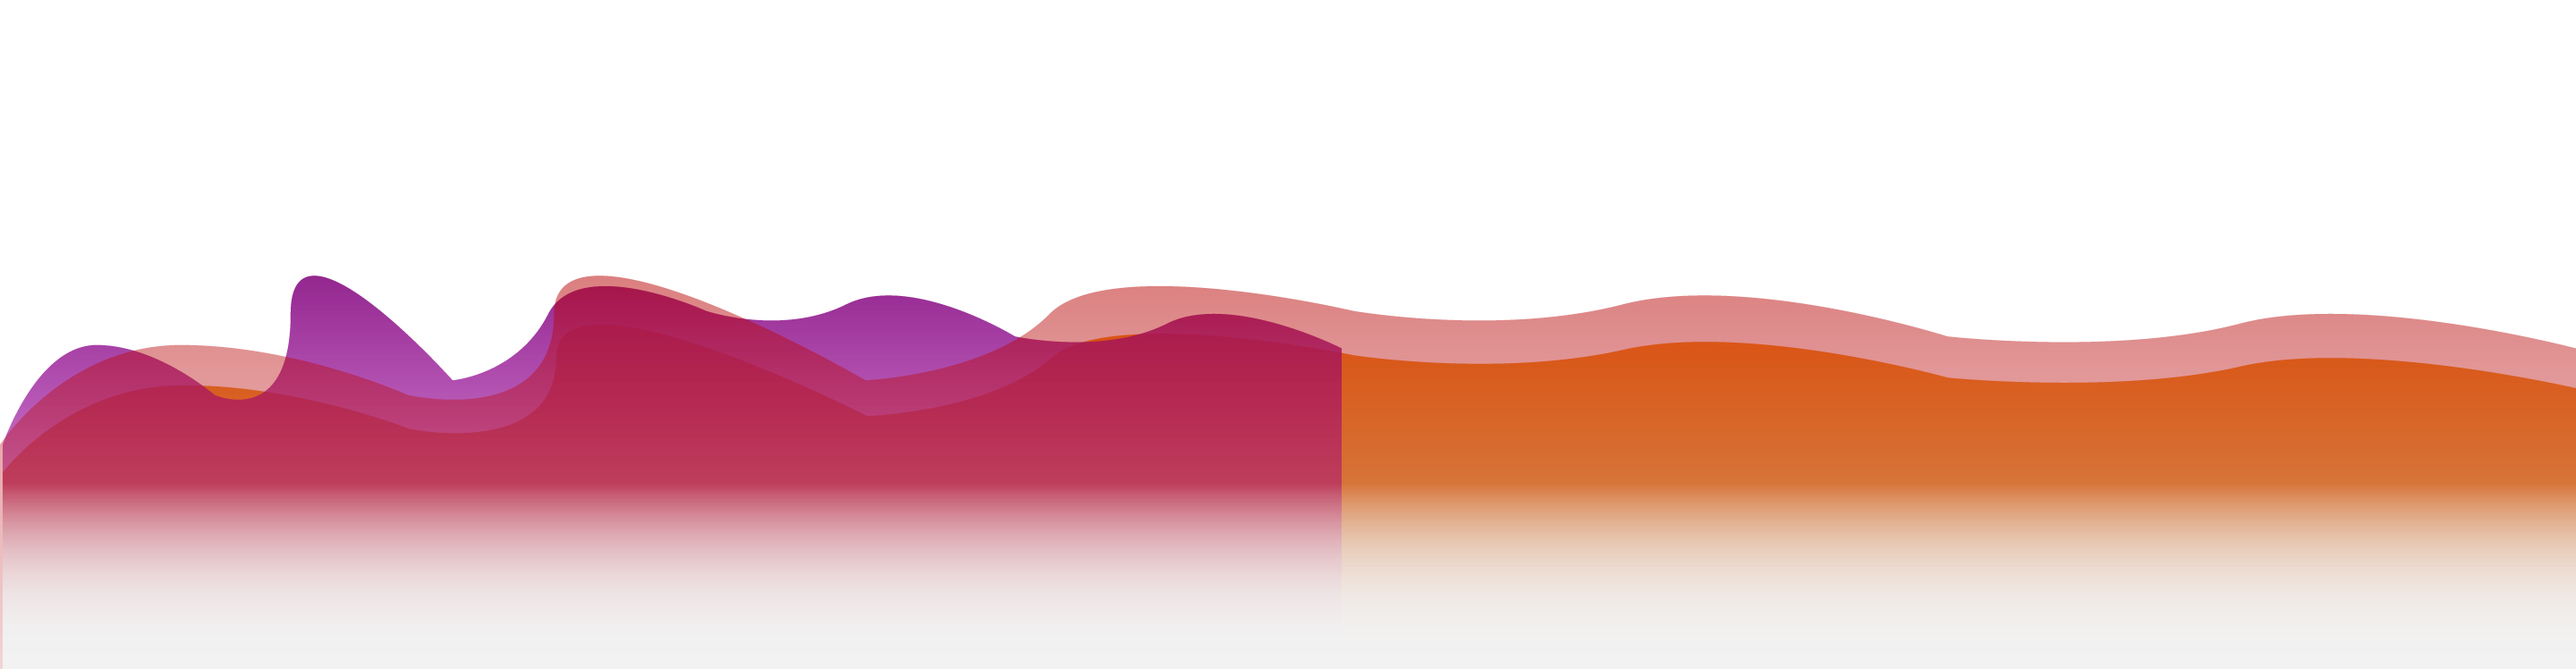
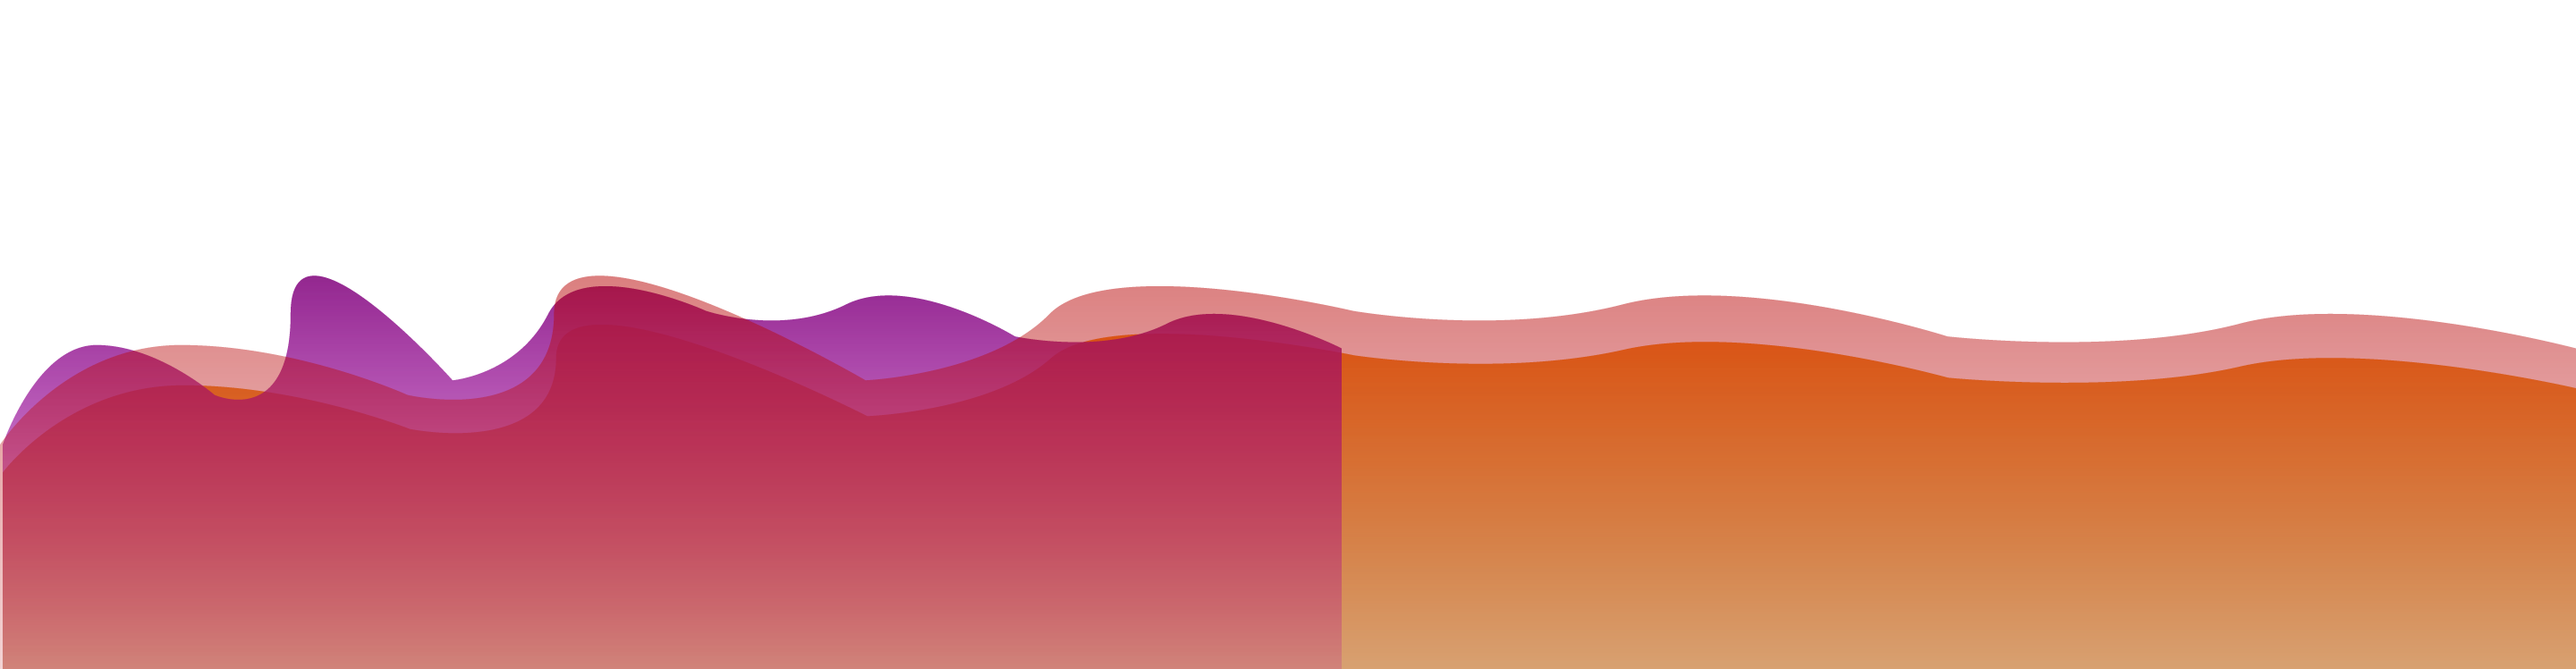
Updates

Changed region(s): [[0.0, 0.738, 1.0, 1.0]]

diff --git a/css/style.css b/css/style.css
@@ -24,7 +24,7 @@ width: 100%;
     
     width: 100%;
     height:1055px;
-    background-color: #fcfcfc;
+    background-color: #000;
 
 }
 
@@ -366,7 +366,9 @@ background: -webkit-linear-gradient(left, white , #ebebeb); /* For Safari 5.1 to
     width: 100%;
     height: 748px;
     background-color: transparent;
-
+        background-image: url("../images/homebg.png")  ;
+      background-repeat: no-repeat;
+    background-size: 100% 100%;
 }
 
 #landingarea{
@@ -380,7 +382,7 @@ background: -webkit-linear-gradient(left, white , #ebebeb); /* For Safari 5.1 to
 }
 
 #focal1{
-    margin-top: 50px;
+    margin-top: 250px;
     width: 33.33%;
         height: 250px;
     background-color: transparent;
@@ -404,7 +406,7 @@ background: -webkit-linear-gradient(left, white , #ebebeb); /* For Safari 5.1 to
 }
 
 #focal2{
-    margin-top: 50px;
+    margin-top: 250px;
     width: 33.33%;
         height: 250px;
     background-color: transparent;
@@ -429,7 +431,7 @@ width: 150px;
 }
 
 #focal3{
-    margin-top: 50px;
+    margin-top: 250px;
     width: 33.33%;
         height: 250px;
     background-color: transparent;
@@ -456,7 +458,7 @@ width: 150px;
     
     width: 100%;
     height:730px;
-    margin-top: 50px;
+    margin-top: 250px;
     background-color: transparent;
 }
 
@@ -605,7 +607,7 @@ h5{
     margin-right:15%;
     text-align: center;
     line-height: 35px;
-    color: #000;
+    color: #f5f5f5;
 }
 
 p{
